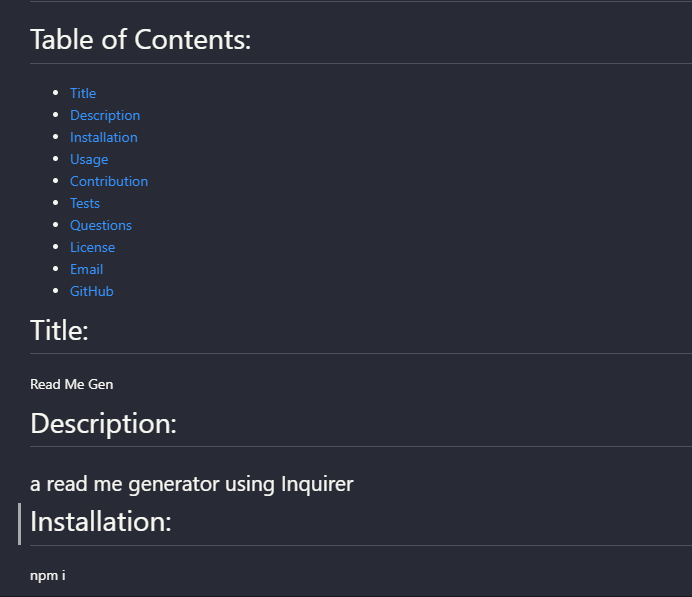
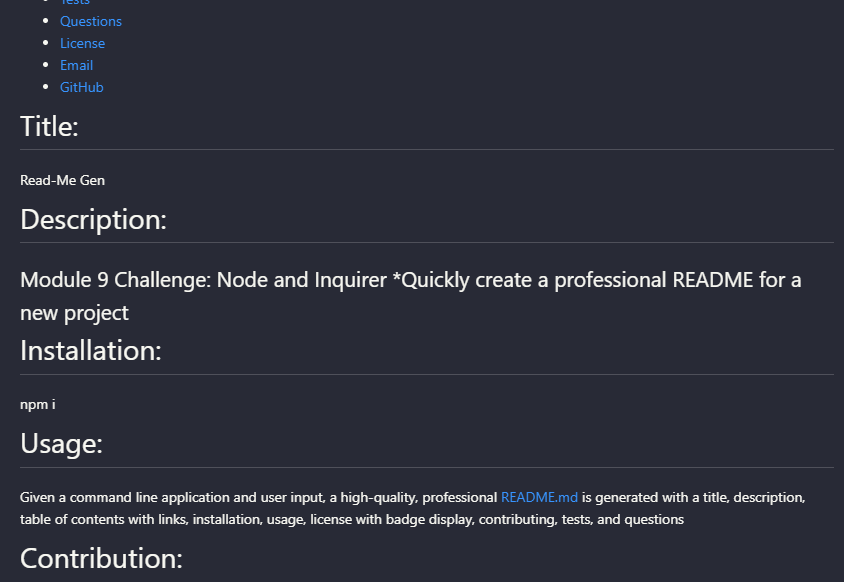
finalized challenge

Changed region(s): [[0.0, 0.6804, 0.9711, 0.9897], [0.0, 0.0, 0.9711, 0.4948], [0.0, 0.5258, 0.2124, 0.6495]]

diff --git a/README.md b/README.md
@@ -12,31 +12,31 @@
   * [GitHub](#github)
 
 # Title: 
-Friday
+Read-Me Gen
 
 # Description:
-almost the weekend
+Module 9 Challenge: Node and Inquirer *Quickly create a professional README for a new project 
 ---
 # Installation:
 npm i
 
 # Usage:
-undefined
+Given a command line application and user input, a high-quality, professional README.md is generated with a title, description, table of contents with links, installation, usage, license with badge display, contributing, tests, and questions
 
 # Contribution:
-Samantha Malone
+Made with love by Samantha Malone
 
 # Tests:
 npm run test
 
 # Questions:
-Does this work?
+What do you think?
 
 # License:
 ![License](https://img.shields.io/badge/License-Apache%202.0-blue.svg)
 
 # Email:
-friday@gmail.com
+sammac99@gmail.com
 
 # GitHub:
-friday
+Smalone9
